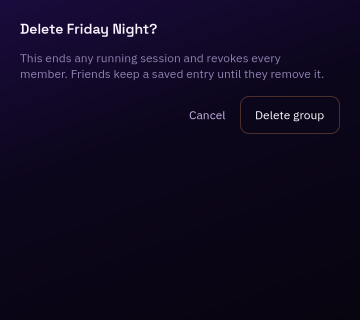
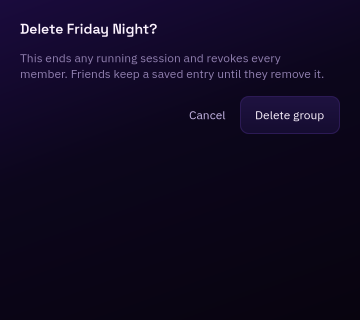
Added member and service details, removal and session confirms
Member rows and service cards open detail dialogs with removal wired to the app layer. End session, disconnect, leave group and cancel invite now use the shared confirmation dialog. Confirmation buttons use the normal secondary style instead of a separate danger look.

Changed region(s): [[0.6417, 0.2812, 0.9472, 0.4375]]

diff --git a/internal/gtkui/dialogs.go b/internal/gtkui/dialogs.go
@@ -333,7 +333,7 @@ func (u *probeUI) confirm(title, message, confirmLabel string, onConfirm func())
 	cancel.AddCSSClass("quiet")
 	cancel.ConnectClicked(func() { win.Close() })
 	confirm := gtk.NewButtonWithLabel(confirmLabel)
-	confirm.AddCSSClass("danger")
+	confirm.AddCSSClass("secondary")
 	confirm.ConnectClicked(func() {
 		win.Close()
 		onConfirm()
@@ -368,6 +368,136 @@ func (u *probeUI) confirmDeleteGroup(g group.Group) {
 			}
 			u.showHome()
 		})
+}
+
+func (u *probeUI) showMemberDialog(g group.Group, m group.Member) {
+	win, content := u.dialog("Member")
+	content.Append(textLabel(m.Name, "card-title"))
+	content.Append(gapBox(10))
+	content.Append(cardText("Device: "+orUnknown(m.DeviceName), "desc"))
+	content.Append(cardText("Address: "+orUnknown(m.LastAddress), "desc"))
+	content.Append(cardText("Fingerprint: "+orUnknown(m.Fingerprint), "desc"))
+	content.Append(cardText("First seen: "+when(m.FirstSeen), "desc"))
+	content.Append(cardText("Last seen: "+when(m.LastSeen), "desc"))
+	status := "approved"
+	if !m.IsApproved() {
+		status = "waiting for approval"
+	}
+	content.Append(cardText("Status: "+status, "desc"))
+	content.Append(gapBox(14))
+
+	buttons := gtk.NewBox(gtk.OrientationHorizontal, 8)
+	cancel := gtk.NewButtonWithLabel("Close")
+	cancel.AddCSSClass("quiet")
+	cancel.ConnectClicked(func() { win.Close() })
+	remove := gtk.NewButtonWithLabel("Remove member")
+	remove.AddCSSClass("secondary")
+	remove.ConnectClicked(func() {
+		if err := u.state.RemoveMember(g.ID, m.ID); err != nil {
+			u.alert("Could not remove member", err.Error())
+			return
+		}
+		win.Close()
+		u.showGroup(g.ID)
+	})
+	buttons.Append(cancel)
+	buttons.Append(remove)
+	buttons.SetHAlign(gtk.AlignEnd)
+	content.Append(buttons)
+	win.Present()
+}
+
+func (u *probeUI) showServiceDialog(g group.Group, s group.Service) {
+	win, content := u.dialog("Service")
+	content.Append(textLabel(s.Name, "card-title"))
+	content.Append(gapBox(10))
+	content.Append(cardText("Protocol: "+protoName(s.Proto), "desc"))
+	content.Append(cardText("LAN target: "+s.Target, "desc"))
+	content.Append(cardText("Friend ports: "+group.FormatPorts(s.Ports), "desc"))
+	if s.Hint != "" {
+		content.Append(cardText("Hint: "+s.Hint, "desc"))
+	}
+	content.Append(gapBox(14))
+
+	buttons := gtk.NewBox(gtk.OrientationHorizontal, 8)
+	cancel := gtk.NewButtonWithLabel("Close")
+	cancel.AddCSSClass("quiet")
+	cancel.ConnectClicked(func() { win.Close() })
+	remove := gtk.NewButtonWithLabel("Remove service")
+	remove.AddCSSClass("secondary")
+	remove.ConnectClicked(func() {
+		if err := u.state.RemoveService(g.ID, s.ID); err != nil {
+			u.alert("Could not remove service", err.Error())
+			return
+		}
+		win.Close()
+		u.showGroup(g.ID)
+	})
+	buttons.Append(cancel)
+	buttons.Append(remove)
+	buttons.SetHAlign(gtk.AlignEnd)
+	content.Append(buttons)
+	win.Present()
+}
+
+func (u *probeUI) confirmEndSession(g group.Group) {
+	u.confirm("End the session?", "Connected friends will be disconnected. The group and its invites stay saved.", "End session", func() {
+		_ = u.state.StopSession()
+		u.showGroup(g.ID)
+	})
+}
+
+func (u *probeUI) confirmDisconnect(g group.Group) {
+	u.confirm("Disconnect?", "The group stays saved and you can reconnect later.", "Disconnect", func() {
+		_ = u.state.StopSession()
+		u.showGroup(g.ID)
+	})
+}
+
+func (u *probeUI) confirmLeaveGroup(g group.Group) {
+	u.confirm("Leave "+g.Name+"?", "This removes the saved group and its device key from this PC.", "Leave group", func() {
+		if err := u.state.DeleteGroup(g.ID); err != nil {
+			u.alert("Could not leave group", err.Error())
+			return
+		}
+		u.showHome()
+	})
+}
+
+func (u *probeUI) confirmCancelInvite(g group.Group, inv group.Invite) {
+	u.confirm("Cancel invite for "+inv.Name+"?", "The code will stop working immediately.", "Cancel invite", func() {
+		if err := u.state.RemoveInvite(g.ID, inv.ID); err != nil {
+			u.alert("Could not cancel invite", err.Error())
+			return
+		}
+		u.showGroup(g.ID)
+	})
+}
+
+func addClick(widget *gtk.Box, onTap func()) {
+	gesture := gtk.NewGestureClick()
+	gesture.SetButton(1)
+	gesture.ConnectReleased(func(nPress int, x, y float64) {
+		if nPress == 1 {
+			onTap()
+		}
+	})
+	gesture.SetPropagationPhase(gtk.PhaseBubble)
+	widget.AddController(gesture)
+}
+
+func orUnknown(value string) string {
+	if value == "" {
+		return "unknown"
+	}
+	return value
+}
+
+func when(at time.Time) string {
+	if at.IsZero() {
+		return "never"
+	}
+	return at.Local().Format("2 Jan 15:04")
 }
 
 func (u *probeUI) dialog(title string) (*gtk.Window, *gtk.Box) {

diff --git a/internal/gtkui/group.go b/internal/gtkui/group.go
@@ -3,7 +3,6 @@ package gtkui
 import (
 	"context"
 	"fmt"
-	"log"
 	"strconv"
 	"strings"
 	"time"
@@ -60,7 +59,7 @@ func (u *probeUI) buildGroupContent(g group.Group) *gtk.Box {
 		leave := gtk.NewButtonWithLabel("Leave group")
 		leave.AddCSSClass("secondary")
 		leave.ConnectClicked(func() {
-			log.Println("gtk probe: leave group dialog not ported yet")
+			u.confirmLeaveGroup(g)
 		})
 		page.Append(leave)
 		page.Append(gapBox(4))
@@ -94,8 +93,7 @@ func (u *probeUI) hostSessionCard(g group.Group, showError func(error)) *gtk.Box
 	}
 	action.ConnectClicked(func() {
 		if live {
-			_ = u.state.StopSession()
-			u.showGroup(g.ID)
+			u.confirmEndSession(g)
 			return
 		}
 		if err := u.state.StartSession(g.ID); err != nil {
@@ -153,7 +151,9 @@ func (u *probeUI) hostServices(g group.Group) *gtk.Box {
 		if i > 0 {
 			box.Append(gapBox(8))
 		}
-		box.Append(u.hostServiceCard(s))
+		card := u.hostServiceCard(s)
+		addClick(card, func() { u.showServiceDialog(g, s) })
+		box.Append(card)
 	}
 	return box
 }
@@ -193,7 +193,9 @@ func (u *probeUI) hostPeople(g group.Group) *gtk.Box {
 			}
 		}
 		box.Append(gapBox(8))
-		box.Append(personCard(m.Name, detail, live, ""))
+		card := personCard(m.Name, detail, live, "")
+		addClick(card, func() { u.showMemberDialog(g, m) })
+		box.Append(card)
 	}
 	if len(g.Members) == 0 {
 		box.Append(gapBox(8))
@@ -230,6 +232,10 @@ func (u *probeUI) hostInvites(g group.Group) *gtk.Box {
 			})
 			content.Append(copy)
 		}
+		cancel := gtk.NewButtonWithLabel("Cancel")
+		cancel.AddCSSClass("quiet")
+		cancel.ConnectClicked(func() { u.confirmCancelInvite(g, inv) })
+		content.Append(cancel)
 		row.SetChild(content)
 		box.Append(row)
 	}
@@ -261,8 +267,7 @@ func (u *probeUI) friendSessionCard(g group.Group, showError func(error)) *gtk.B
 	}
 	action.ConnectClicked(func() {
 		if live {
-			_ = u.state.StopSession()
-			u.showGroup(g.ID)
+			u.confirmDisconnect(g)
 			return
 		}
 		if err := u.state.Reconnect(context.Background(), g.ID); err != nil {

diff --git a/internal/gtkui/probe.go b/internal/gtkui/probe.go
@@ -97,6 +97,16 @@ func RunProbe(argv []string) int {
 				ui.showGroup(g.ID)
 				ui.confirmDeleteGroup(g)
 			}
+		case strings.HasPrefix(screen, "member:"):
+			if g, ok := ui.state.Group(strings.TrimPrefix(screen, "member:")); ok && len(g.Members) > 0 {
+				ui.showGroup(g.ID)
+				ui.showMemberDialog(g, g.Members[0])
+			}
+		case strings.HasPrefix(screen, "service-detail:"):
+			if g, ok := ui.state.Group(strings.TrimPrefix(screen, "service-detail:")); ok && len(g.Services) > 0 {
+				ui.showGroup(g.ID)
+				ui.showServiceDialog(g, g.Services[0])
+			}
 		case strings.HasPrefix(screen, "group:"):
 			ui.showGroup(strings.TrimPrefix(screen, "group:"))
 		default:
